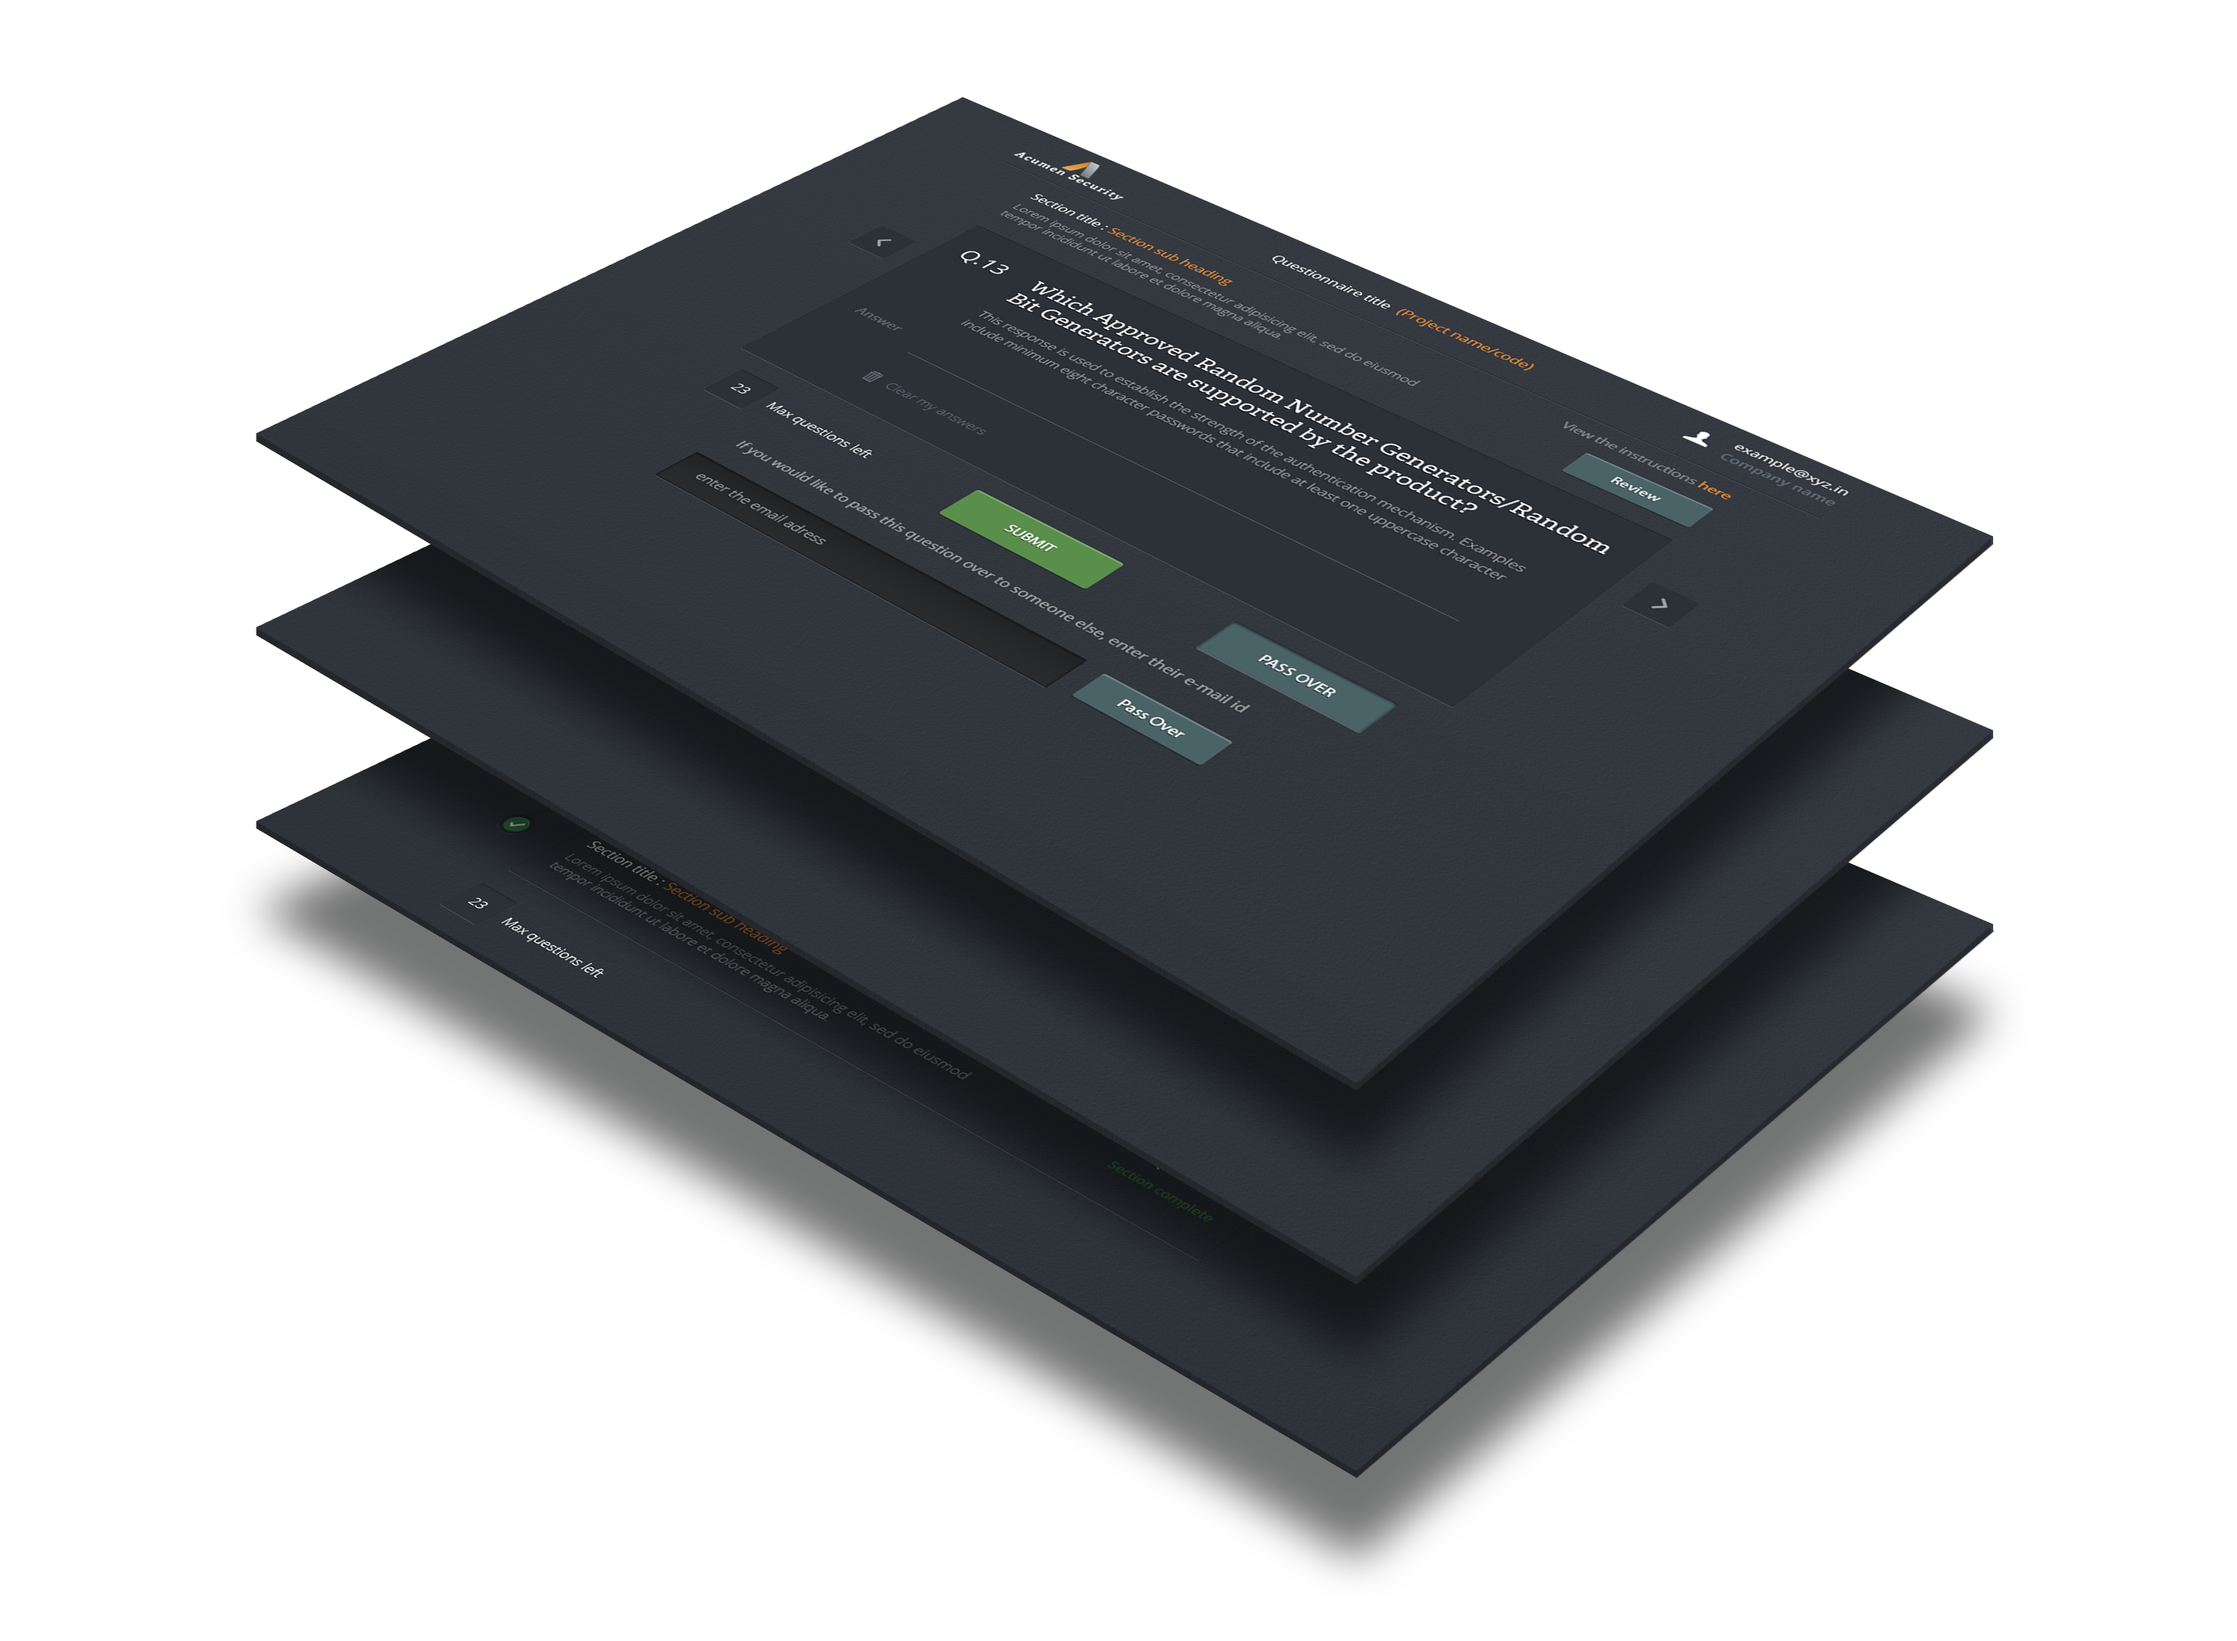
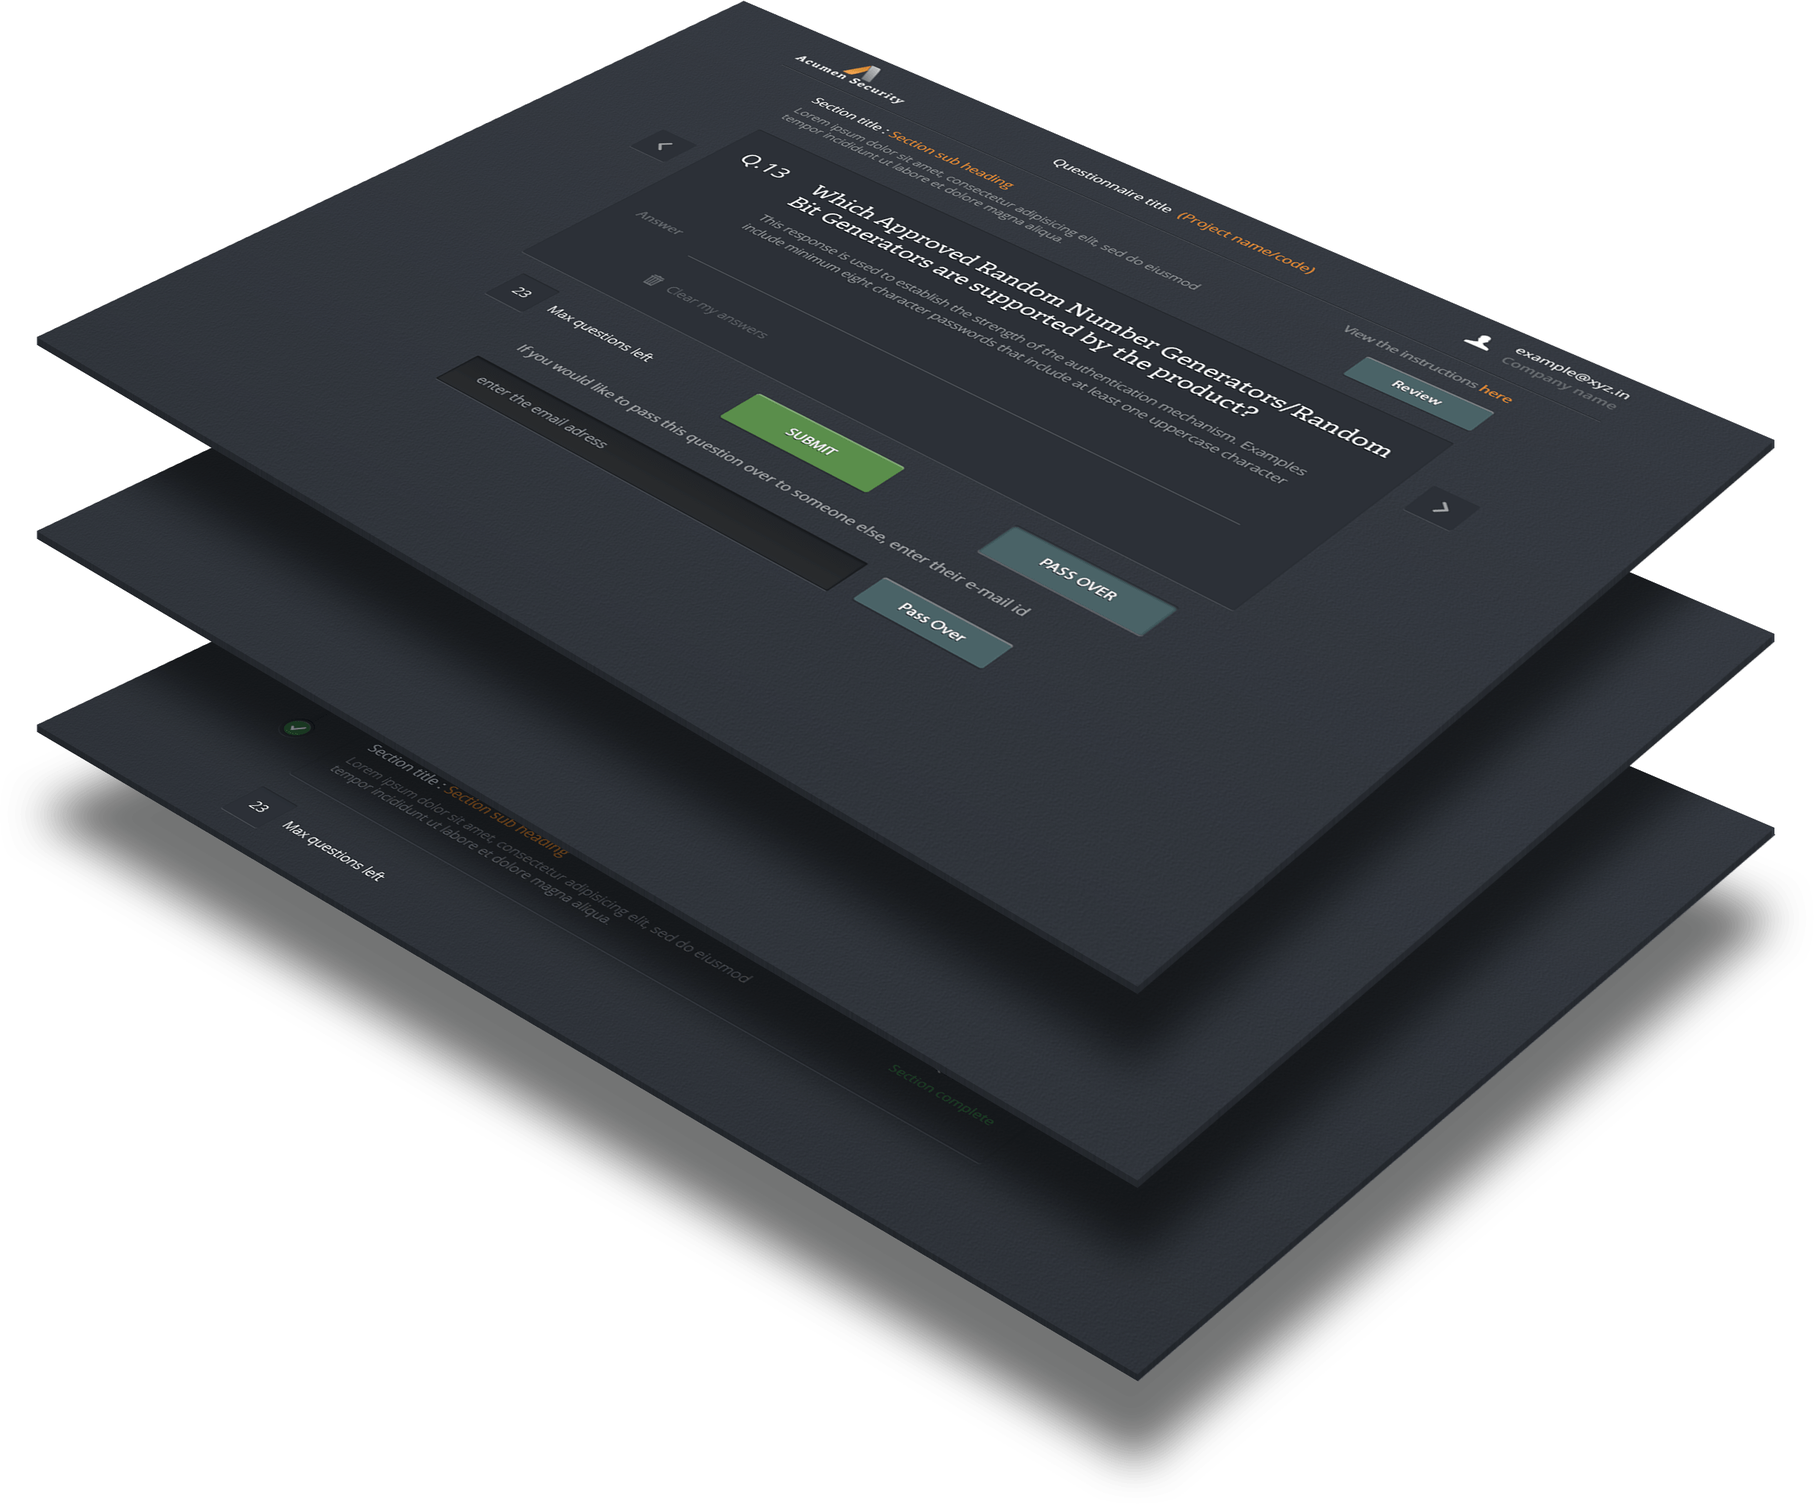
All images optimized, and made the acumensec page almost responsive

diff --git a/css/custom.css b/css/custom.css
@@ -334,6 +334,10 @@ a, a:hover, a:active{
   margin: 14px 0;
 }
 
+.single_image_grid {
+  margin: 75px;
+}
+
 .section{
   display: block;
   overflow: hidden;
@@ -391,7 +395,7 @@ a, a:hover, a:active{
 }
 
 .project-left {
-  min-height: 800px;
+  min-height: 500px;
   height: auto!important;
   padding-top: 0;
   padding-bottom: 0;
@@ -401,7 +405,7 @@ a, a:hover, a:active{
   position: relative;
   height: 400px;
   width: calc(40% + 250px);
-  height: 800px;
+  /*height: 800px;*/
 }
 
 .project-left>.visual>img {
@@ -412,7 +416,7 @@ a, a:hover, a:active{
 
 .project-left>.text {
   position: absolute;
-  top: 20%;
+  top: 10%;
   left: 50%;
   width: 400px;
   margin: 130px 0 130px 130px;
@@ -949,6 +953,47 @@ width:100%;
     backface-visibility: visible;
   }*/
 
+  .project-left {
+    min-height: 600px;
+    height: auto!important;
+    padding-top: 0;
+    padding-bottom: 0;
+  }
+
+  .project-right{
+    min-height: 600px;
+    height: auto!important;
+    padding-top: 0;
+    padding-bottom: 0;
+  }
+
+
+  .project-left > .visual, .project-right > .visual {
+    position: relative;
+    height: 400px;
+  }
+
+  .project-right > .visual > img {
+    left: 60%;
+  }
+
+  .project-left > .text {
+    position: relative;
+    left: 40%;
+    margin: 40px;
+  }
+
+  .project-right > .text {
+    position: relative;
+    right: 0;
+    margin: 40px;
+  }
+
+  .visual > img {
+    width: auto;
+    height: 400px;
+  }
+
   .grid > .element > a > p {
     opacity: 1;
     -webkit-transform: scale(1);
@@ -1115,6 +1160,41 @@ width:100%;
     width: 100%;
     max-width: 100%;
     min-width: 280px;
+  }
+
+  .project-left {
+    min-height: 400px;
+    height: auto!important;
+    padding-top: 0;
+    padding-bottom: 0;
+  }
+
+  .project-right{
+    min-height: 400px;
+    height: auto!important;
+    padding-top: 0;
+    padding-bottom: 0;
+  }
+
+
+  .project-left > .visual, .project-right > .visual {
+    position: relative;
+    height: 400px;
+  }
+
+  .project-right > .visual > img {
+    left: 60%;
+  }
+
+  .project-left > .text, .project-right > .text {
+    position: relative;
+    left: 0;
+    margin: 40px;
+  }
+
+  .visual > img {
+    width: auto;
+    height: 400px;
   }
 
 }

diff --git a/accumen.html b/accumen.html
@@ -120,7 +120,7 @@
   <div class="section section-dark-inverse">
     <div class="project-left">
       <div class="visual">
-        <img class="wow fadeInLeft animate" src="images/Portfolio/accumen/ui_stack.png" width="800px" height="800px">
+        <img class="wow fadeInLeft animate" src="images/Portfolio/accumen/ui_stack.png" width="600px" height="500px">
       </div>
       <div class="text wow fadeIn animate">
         <h2>One page, One question</h2>
